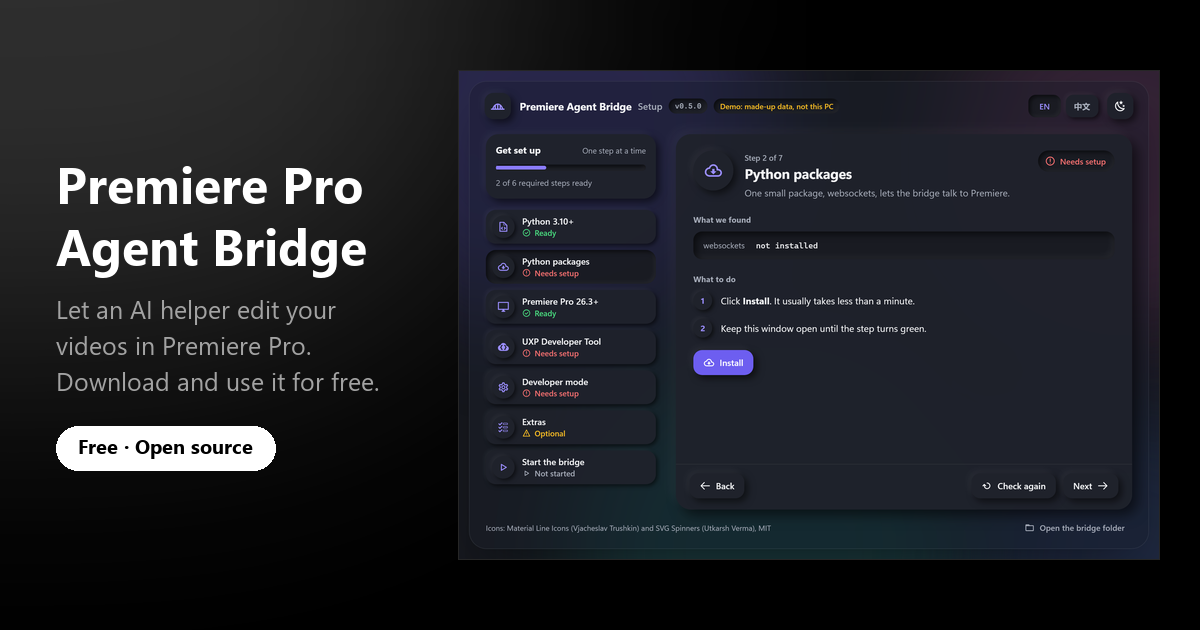
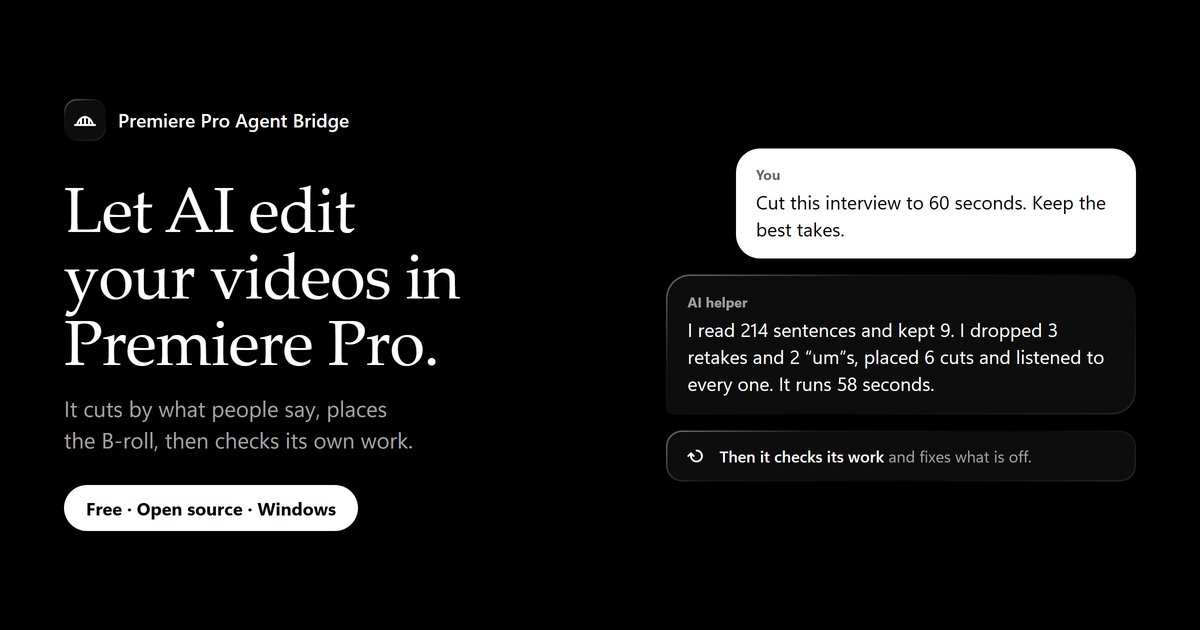
Landing page: new link-preview image
The preview shows what the tool does (the headline and an example chat) in the page's
black-and-white look, instead of the old violet setup-window screenshot. The image link
carries the version (?v=0.5.1) so apps that cached the old preview fetch the new one.

diff --git a/docs/index.html b/docs/index.html
@@ -13,7 +13,7 @@
 <meta property="og:title" content="Premiere Pro Agent Bridge: let AI edit your videos in Premiere Pro">
 <meta property="og:description" content="Free and open source. You tell an AI helper what you want, and it edits your video in Premiere Pro for you.">
 <meta property="og:url" content="https://zeussheen.github.io/ppro-agent-bridge/">
-<meta property="og:image" content="https://zeussheen.github.io/ppro-agent-bridge/og-image.png">
+<meta property="og:image" content="https://zeussheen.github.io/ppro-agent-bridge/og-image.png?v=0.5.1">
 <meta property="og:image:width" content="1200">
 <meta property="og:image:height" content="630">
 <meta name="twitter:card" content="summary_large_image">
